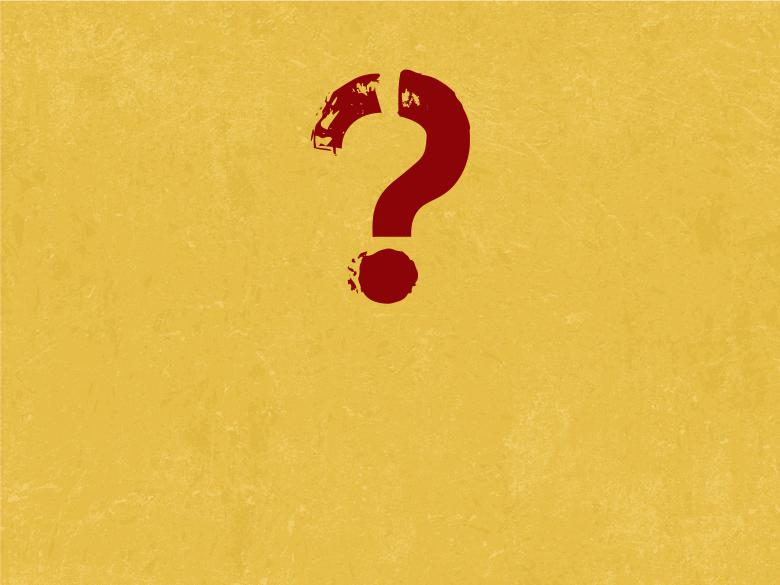
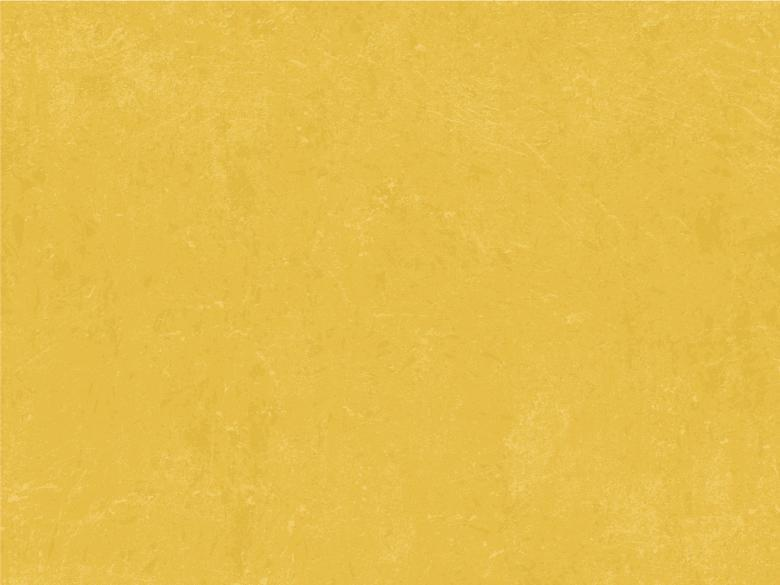
-

Changed region(s): [[0.4, 0.1231, 0.6154, 0.5231]]

diff --git a/css/horror.css b/css/horror.css
@@ -152,8 +152,14 @@ span.cell-text {
  
 
  .cell-inrevealed {
-	 
+	 vertical-align: middle;
  }
+ 
+    .cell-inrevealed span.cell-text::before {
+    content: "?";
+    display: block;
+    font-size: 2em;
+}
 
  .cell-inrevealed:hover {
    cursor: pointer;
